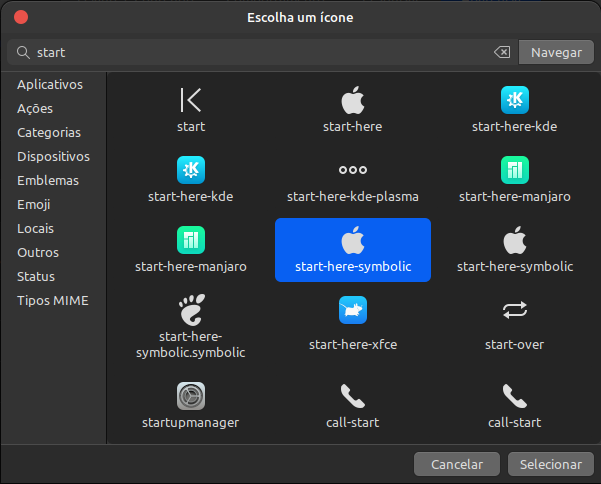
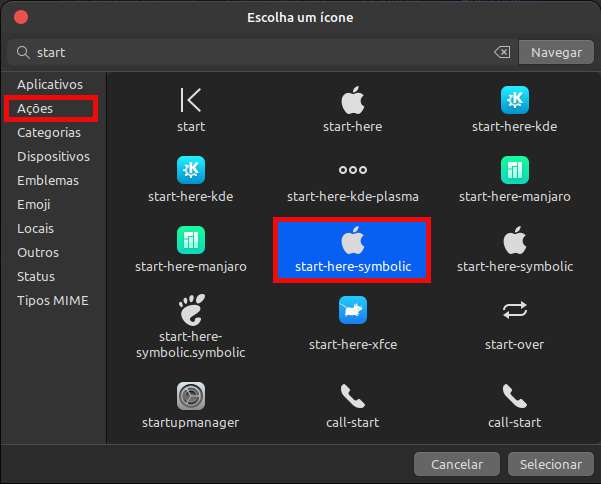
:rocket:Barra do menu

Changed region(s): [[0.4493, 0.4339, 0.7188, 0.5888], [0.0, 0.186, 0.1797, 0.2789]]

diff --git a/README.md b/README.md
@@ -104,7 +104,7 @@ Remover 'Mostrar àrea de trabalho', clicando com o botão direito do mouse
 ![](assets/img/clm-015.png)
 
 
-Remover o 'Menu', clicando com o botão direito do mouse
+Remover o 'Menu', clicando com o botão direito do mouse.<br>
 ![](assets/img/clm-016.png)
 
 
@@ -127,4 +127,23 @@ Arraste o icone para a esquesda
 ![](assets/img/clm-020.png)
 
 
+Clique com o botão direito do mouse >> Configurar
+
+![](assets/img/clm-021.png)
+
+![](assets/img/clm-022.png)
+
+![](assets/img/clm-023.png)
+
+
+No menu Aparência, clique no icone 'icone no painel'
+![](assets/img/clm-024.png)
+
+
+Selecione no menu esquerdo 'Ações' e procure por 'start-here-symbolic'
+![](assets/img/clm-025.png)
+
+
+Edite o 'Texto no painel' para 'Applications'
+![](assets/img/clm-026.png)
 
